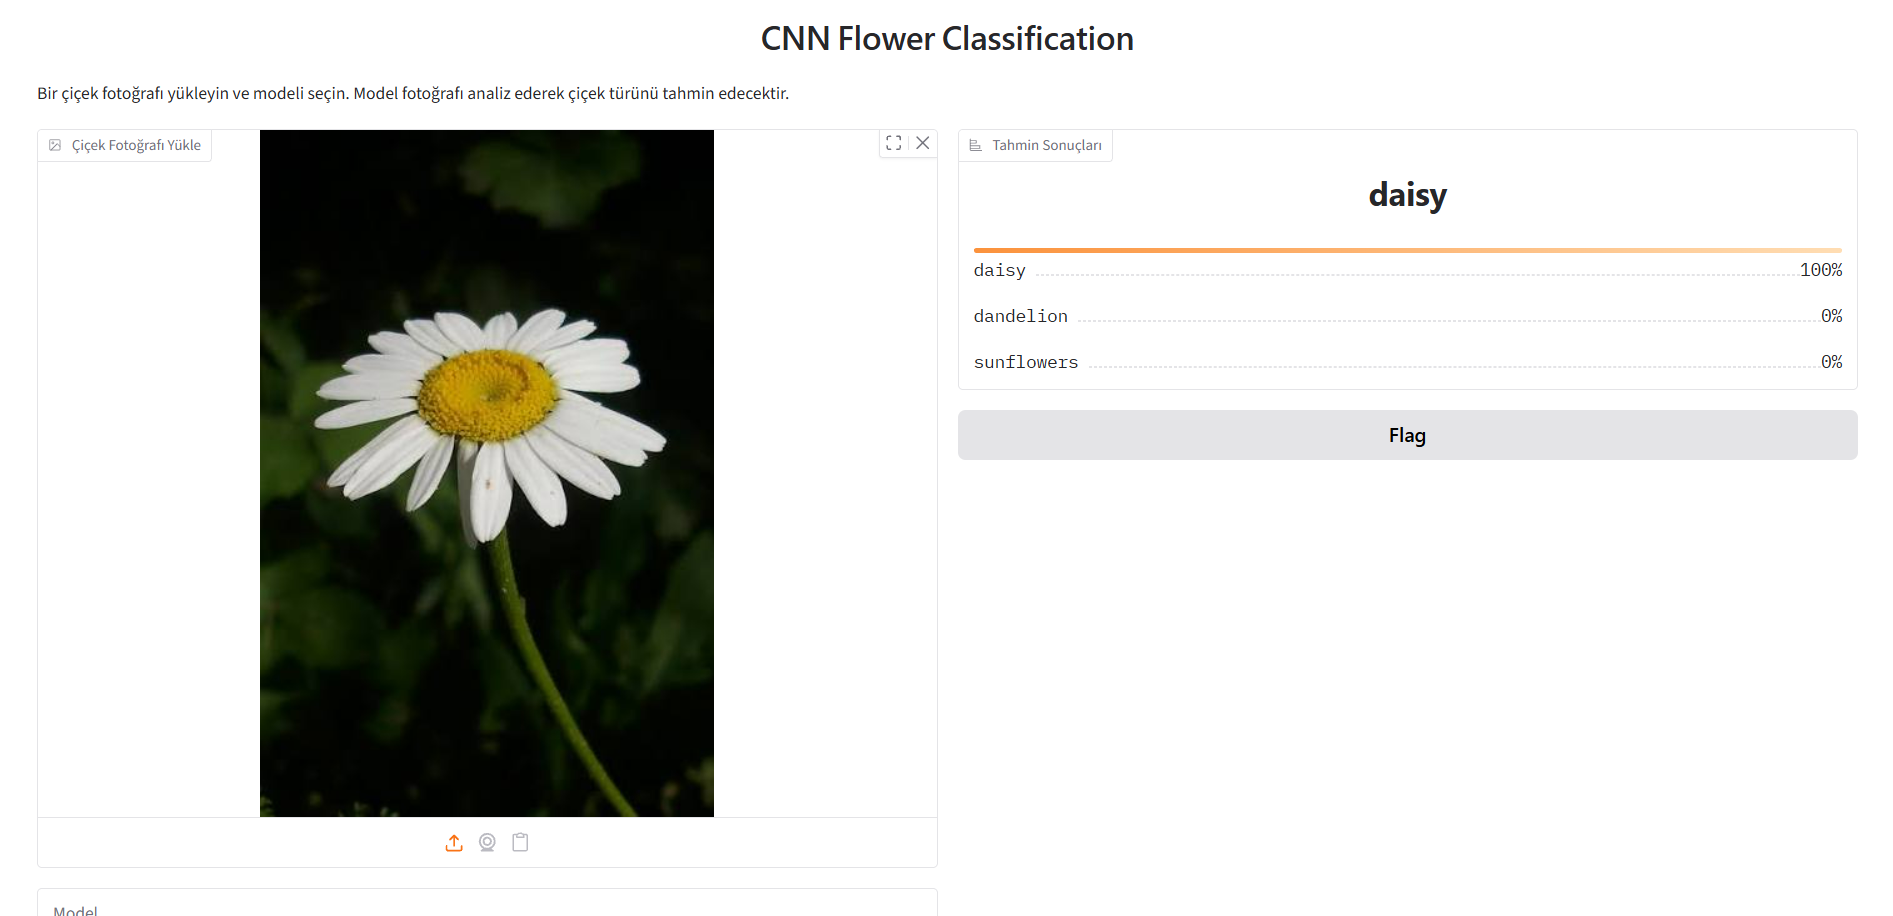
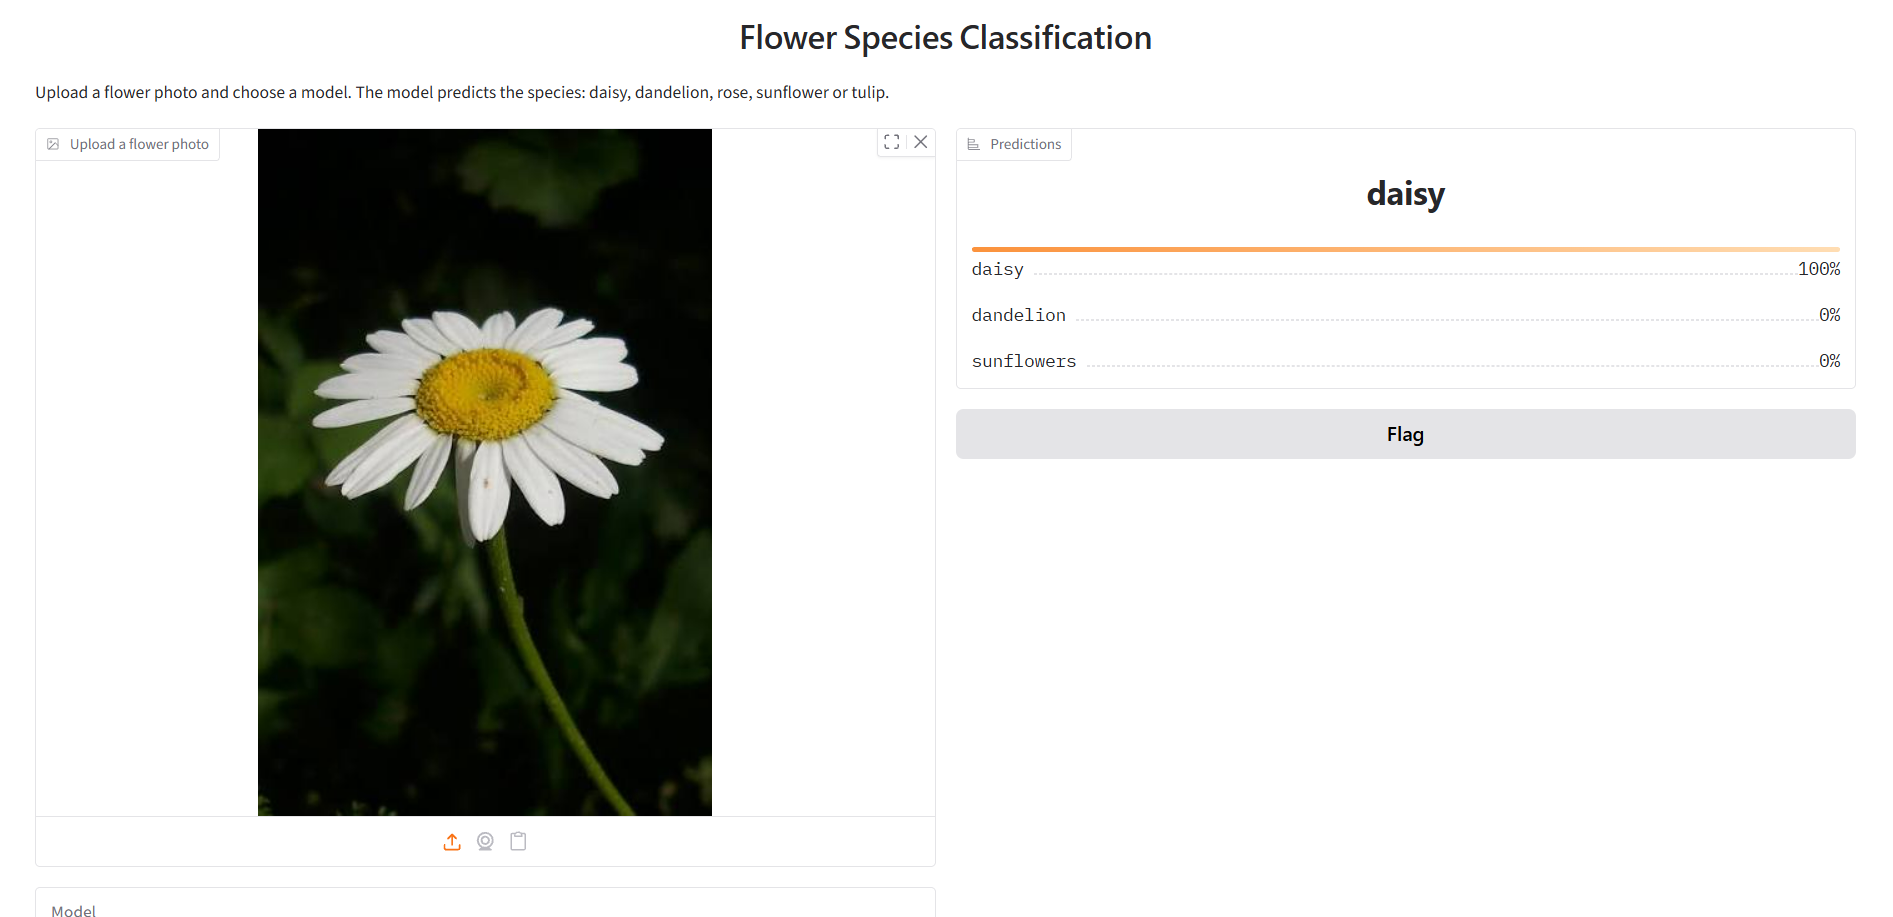
Replace demo screenshots with the English interface
- images/demo_tulips.png, demo_daisy.png, demo_rose.png now show the
  translated Gradio app (same file names, so README links are unchanged)
- PROGRESS.md: screenshot update recorded

diff --git a/PROGRESS.md b/PROGRESS.md
@@ -108,7 +108,7 @@ Ham metrikler ve confusion matrix'ler `images/*_metrics.json` dosyalarında.
   - model adı: "Özel CNN" yerine "Custom CNN"
 
   `space/` kopyasından başlatılan uygulamanın `/config` çıktısında bütün metinlerin İngilizce olduğu ve iki modelin de tahmin yaptığı doğrulandı. README'deki "Özel CNN" açıklaması ve gelecek çalışmalardaki dil maddesi kaldırıldı.
-- **Bekleyen:** `images/demo_tulips.png`, `demo_daisy.png` ve `demo_rose.png` hâlâ Türkçe arayüzü gösteriyor. Ekran görüntüleri yeniden alınınca aynı dosya adlarıyla değiştirilecek.
+- **Ekran görüntüleri yenilendi.** `images/demo_tulips.png`, `demo_daisy.png` ve `demo_rose.png` İngilizce arayüzü gösteriyor ve eski dosyaların üzerine yazıldı. Yeni görüntüler `1.png`, `2.png` ve `3.png` adıyla gelmişti, içeriklerine göre doğru adlara çevrildi.
 - **Fine-tuning'deki iki değişikliğin etkisi ayrıştırıldı** (README 5. bölüm):
   - **Sıçrama BatchNorm'dan.** İki deneme 1. aşamanın son epoch'una kadar birebir aynı. Sıçrama fine-tuning'in 1. epoch'unda oluyor: eğitim loss'u BN eğitilebilirken 0.498, donukken 0.250. Patience bir epoch'un iyileşmemesinden sonra devreye girdiği için ilk epoch'u etkileyemez. Dolayısıyla sıçramanın kaybolması BN değişikliğine bağlanabilir.
   - **Patience sadece eğitimi uzattı.** Log'dan yapılan simülasyona göre ikinci deneme patience 3 ile 7. fine-tuning epoch'unda dururdu ve validation loss 0.272 olurdu. Patience 5 eğitimi 0.244'e kadar sürdürdü.
